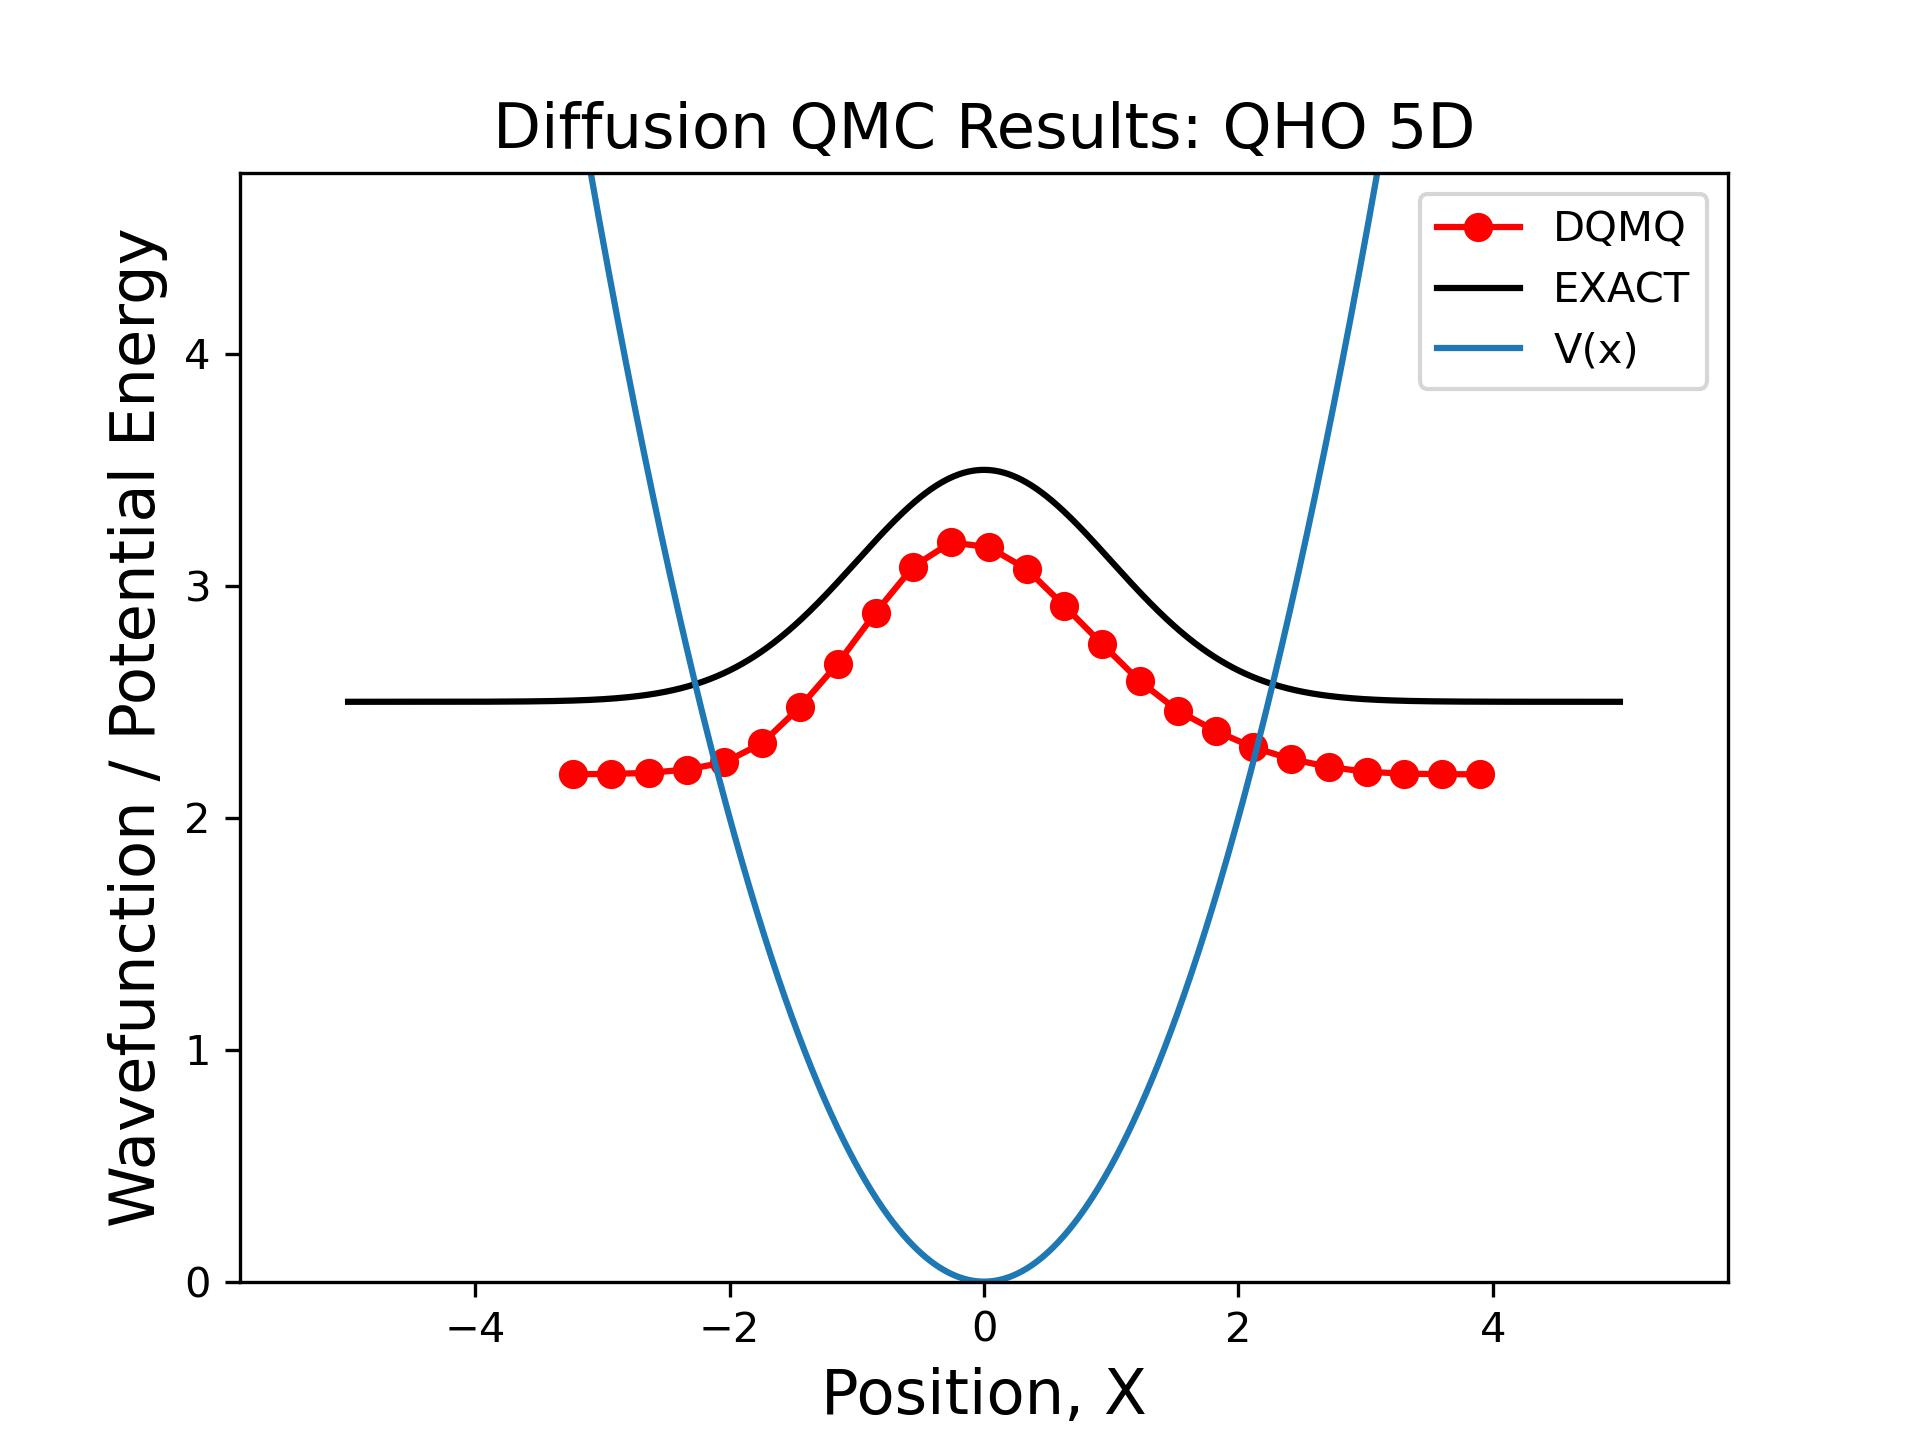
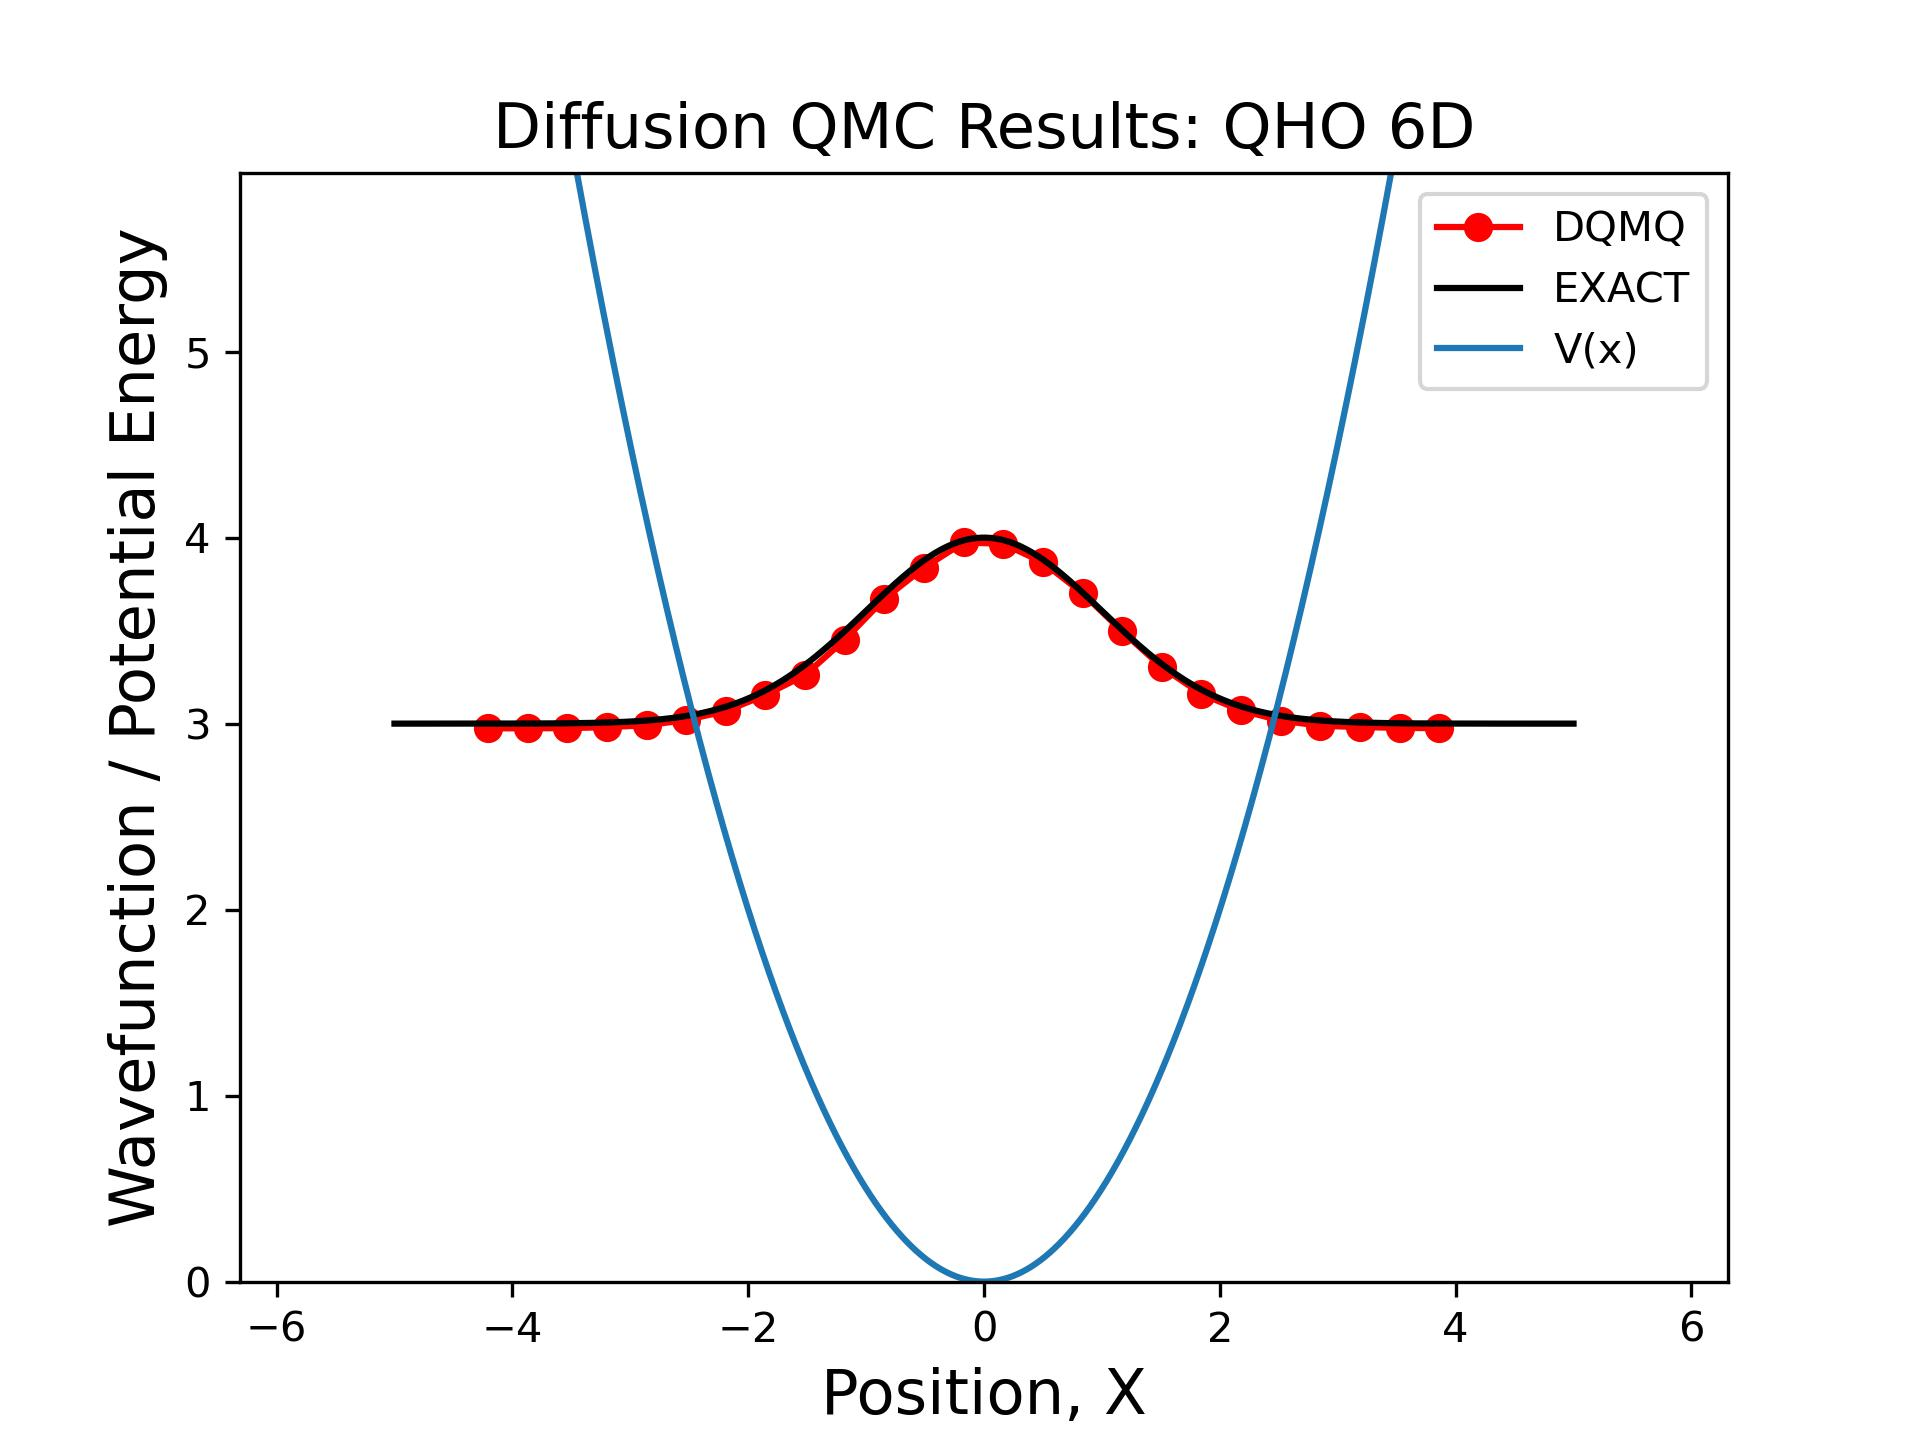
Clean

diff --git a/1e_DQMC/QMC.py b/1e_DQMC/QMC.py
@@ -1,6 +1,6 @@
 import numpy as np
 from matplotlib import pyplot as plt
-#import random
+from scipy.interpolate import interp1d
 
 def V(x, omega, model):
     if ( len(x.shape) == 2 ):
@@ -8,18 +8,19 @@ def V(x, omega, model):
     else:
         x2 = x**2
     
+    # WHICH HAMILTONIAN DO WE WANT ?
     if ( model == "QHO" ):
         return 0.5 * omega**2 * x2 # Quantum Harmonic Oscillator
+    
     elif ( model == "ISW" ):
         return np.array([ 0 if (-1 < np.sqrt(x2[w]) < 1) else \
                           1000 for w in range(len(x2))  ]) # Infinite Square Well
 
 
 def DMC(num_walkers, num_steps, time_step, coupling, omega, E_TRIAL, dimension, model):
+
     # Initialize positions of the walkers
-    #positions = np.random.randn(num_walkers, dimension)
-    #positions = np.array([ [(random.random()*2-1)*3 for d in range(dimension)] for w in range(num_walkers) ] )
-    positions = (np.random.uniform(size=(num_walkers,dimension))*2-1)*10
+    positions = (np.random.uniform(size=(num_walkers,dimension))*2-1)*2
 
     # Initialize the weights of the walkers
     weights = np.ones(num_walkers)
@@ -27,20 +28,18 @@ def DMC(num_walkers, num_steps, time_step, coupling, omega, E_TRIAL, dimension, 
     for step in range(num_steps):
         # Propagate the walkers
         positions += np.random.normal(0, 1, size=(len(positions), dimension))*np.sqrt(2*coupling*time_step)
-        #positions += np.array([ [random.gauss(0, 1)*np.sqrt(2*coupling*time_step) for d in range(dimension)] for w in range(len(positions)) ] )
 
         # Compute the potential energy for each walker
         potential_energies = V(positions, omega, model)
 
         # Compute the weights of the walkers
-        alpha = 0.5 # Arbitrary parameter
+        alpha = 0.1 # Arbitrary parameter
         E_TRIAL = E_TRIAL + alpha * np.log( num_walkers / len(positions) )
         weights = np.exp(-time_step * (potential_energies - E_TRIAL))
-        #print( "E Trial:", E_TRIAL, num_walkers, len(positions) )
+        #print( "E Trial:", round(E_TRIAL,4), num_walkers, len(positions) )
 
         # Evaluate q = s + r
         s        = np.zeros(( len(weights) ), dtype=int)
-        #RAND     = np.array([ random.random() for w in range(len(positions)) ])
         RAND     = np.random.uniform(size=len(positions))
         IND_ZERO = weights < RAND  # s --> 0
         IND_2    = weights - 1 > RAND # s --> 2
@@ -62,16 +61,16 @@ def DMC(num_walkers, num_steps, time_step, coupling, omega, E_TRIAL, dimension, 
     return positions
 
 # Parameters
-num_walkers = 10000
-num_steps = 2000
+num_walkers = 5000
+num_steps = 500
 time_step = 0.01
 coupling = 0.5
 omega = 1.0
-E_TRIAL = 1.5
-dimension = 10
+E_TRIAL = 0.5
+dimension = 6
 model = "QHO" # "QHO" -- Performs best, "ISW" -- Performs poorly
 
-# Run the DMC simulation
+# Run the DMC simulation for GS
 positions = DMC(num_walkers, num_steps, time_step, coupling, omega, E_TRIAL, dimension, model)
 
 # Print the results
@@ -97,12 +96,22 @@ elif ( model == "ISW" ):
     X = np.linspace( -1,1,2000 )
     PSI_0_EXACT = np.cos( np.pi * X / L ) + E_EXACT
 
-
 # Compute Observables with DQMC Wavefunction
+NX = len(EDGES)
 dX = EDGES[1] - EDGES[0]
 AVE_X  = np.sum( EDGES    * PSI_0_DMQ**2 ) * dX
 AVE_X2 = np.sum( EDGES**2 * PSI_0_DMQ**2 ) * dX
-print( "\t<x> = %1.4f, <x^2> = %1.4f, <x^2>-<x^2> = %1.4f" % (AVE_X, AVE_X2, AVE_X2 - AVE_X**2 ) )
+print( "\t<x> = %1.4f, <x^2> = %1.4f, <x^2>-<x>^2 = %1.4f" % (AVE_X, AVE_X2, AVE_X2 - AVE_X**2 ) )
+# Centered DFT for <p> and <p^2>
+n, m   = np.arange(NX).reshape( (-1,1) ), np.arange(NX).reshape( (1,-1) )
+W      = np.exp( -2j*np.pi * (m-NX//2) * (n-NX//2) / NX )
+f_k    = (W @ PSI_0_DMQ).real * dX / np.sqrt( 2 * np.pi )
+kmax   = 1 / 2 / dX # This is not angular frequency
+k      = np.linspace( -kmax, kmax, NX )
+dk     = k[1] - k[0]
+AVE_P  = np.sum( k    * f_k**2 ) * dX
+AVE_P2 = np.sum( k**2 * f_k**2 ) * dX
+print( "\t<p> = %1.4f, <p^2> = %1.4f, <p^2>-<p>^2 = %1.4f" % (AVE_P, AVE_P2, AVE_P2 - AVE_P**2 ) )
 
 # Plot the Results
 plt.plot( EDGES, PSI_0_DMQ / np.max(PSI_0_DMQ) + E_AVE, "-o", c="red", label="DQMQ" )
